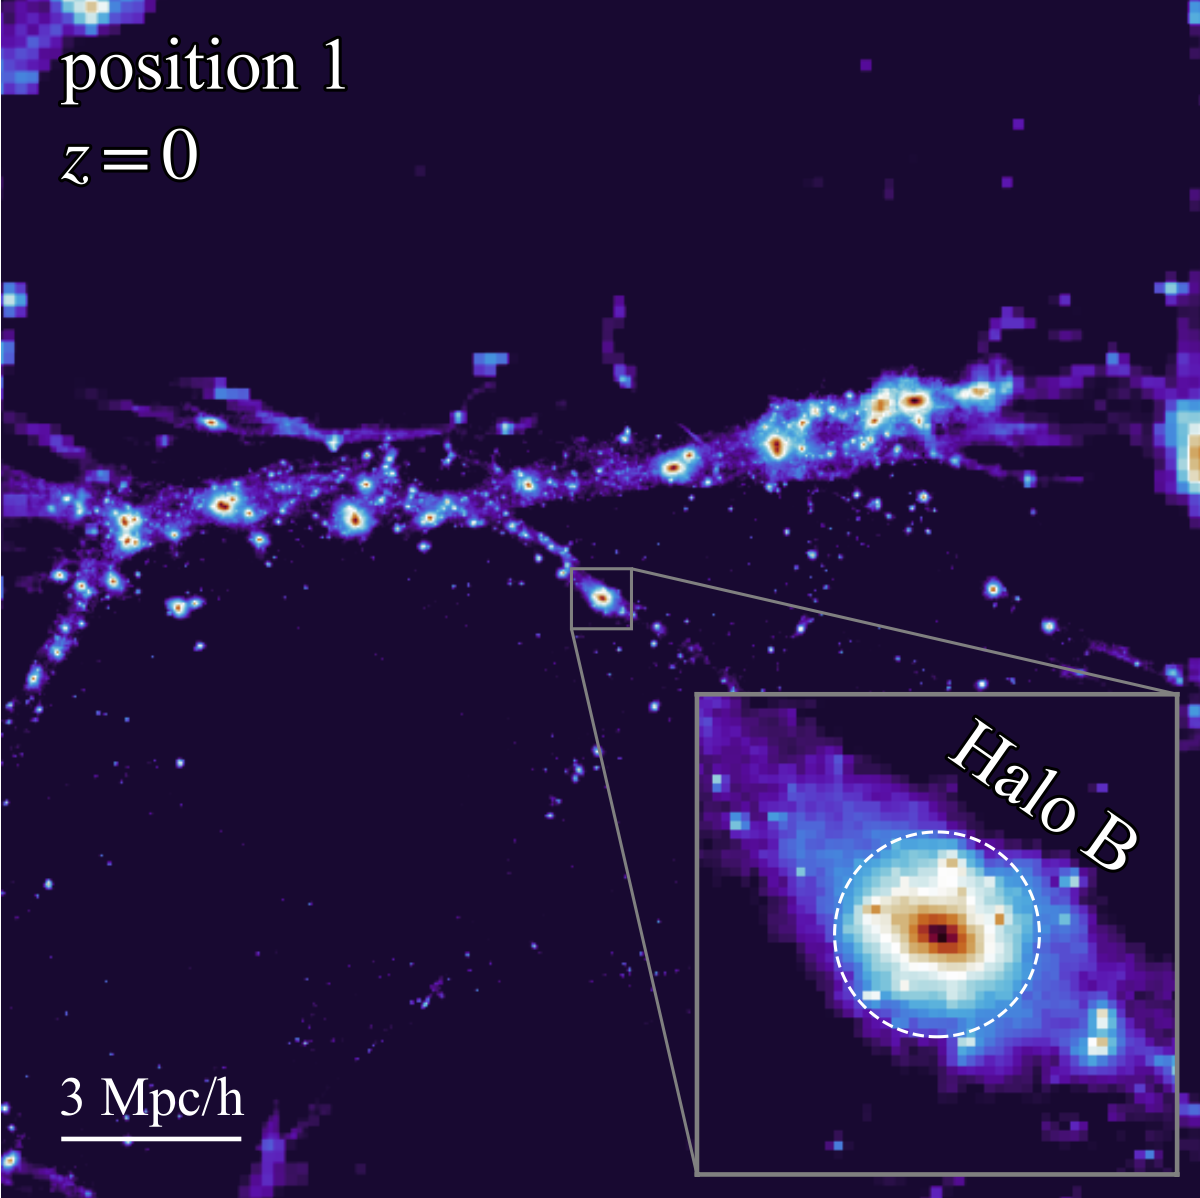
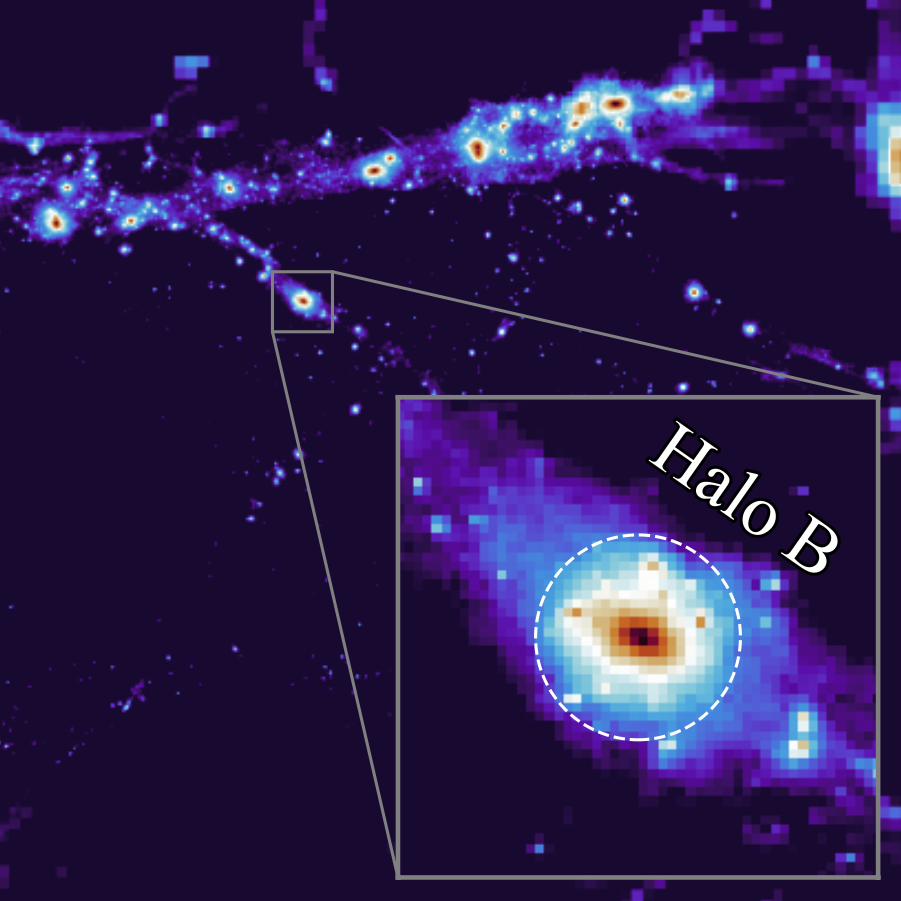
resized figures and added text

diff --git a/index.html b/index.html
@@ -49,7 +49,7 @@
 						<div class="inner">
 							<div class="logo"><span class="icon fa-gem"></span></div>
 							<h2>Anatole Storck</h2>
-							<p>PhD student in astrophysics - University of Oxford</p>
+							<p>PhD student in Astrophysics - University of Oxford</p>
 						</div>
 					</section>
 
@@ -62,7 +62,7 @@
 									<a href="#" class="image"><img src="images/Megatron.png" alt="" /></a>
 									<div class="content">
 										<h2 class="major">The MEGATRON simulation</h2>
-										<p>My PhD is currently focused on analysing population III stars in the early evolution of a Milky Way-like galaxy.</p>
+										<p>My PhD is currently focused on tracking and characterising population III stars in the MEGATRON simulation. This simulation attempts to recreate the early evolution of a Milky Way-like galaxy using supercomputers and advanced physical models.</p>
 										<a href="#" class="special">More information soon</a>
 									</div>
 								</div>
